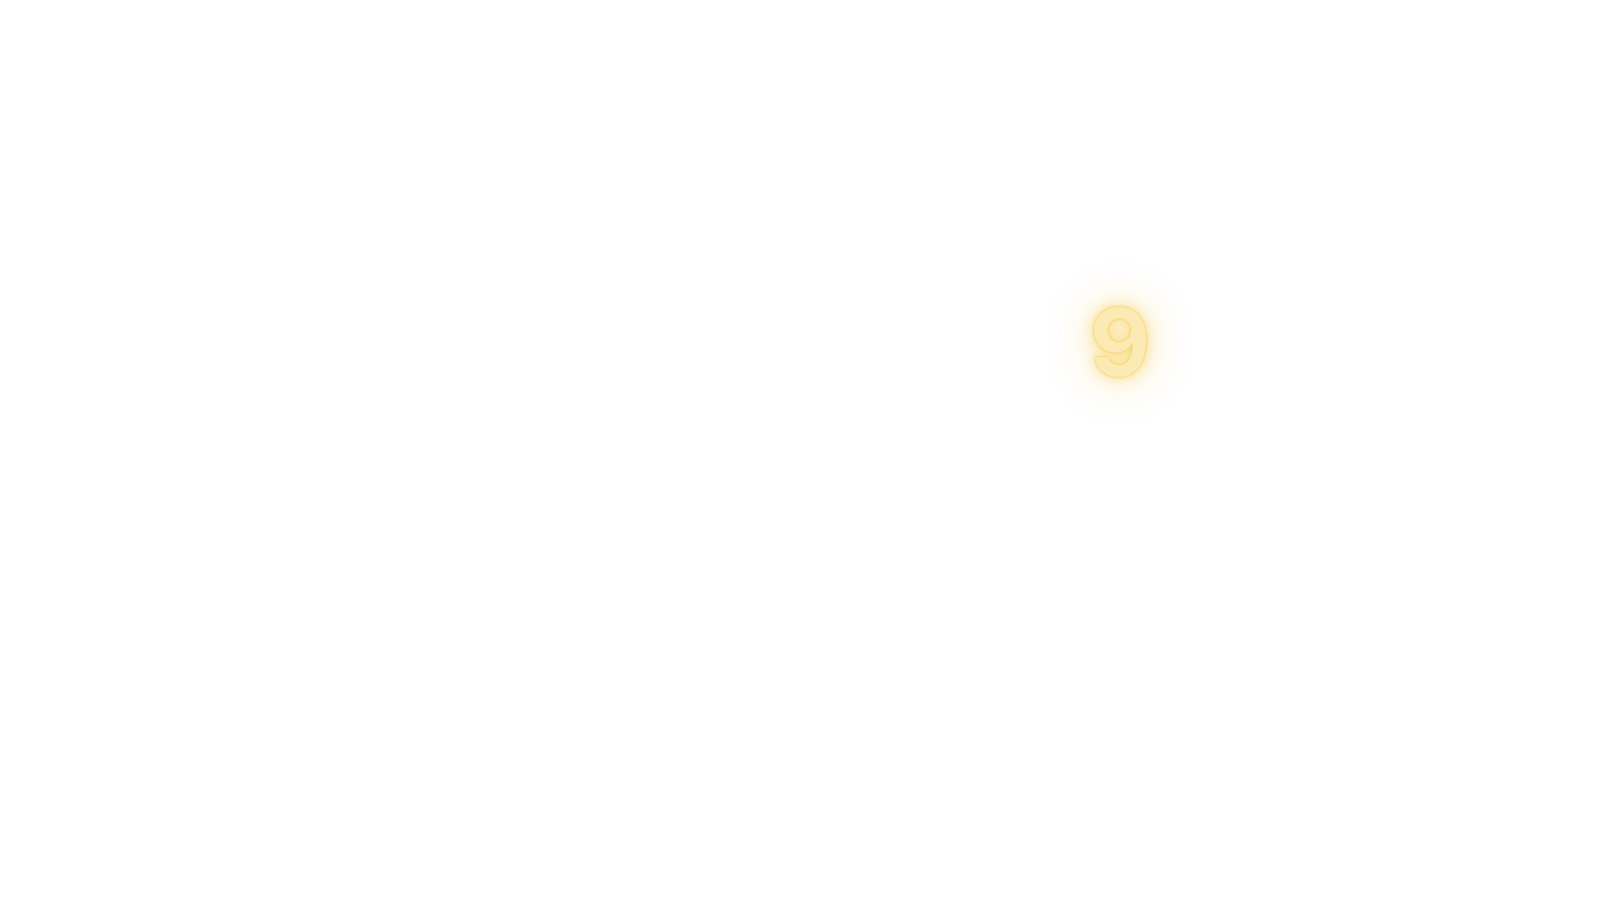
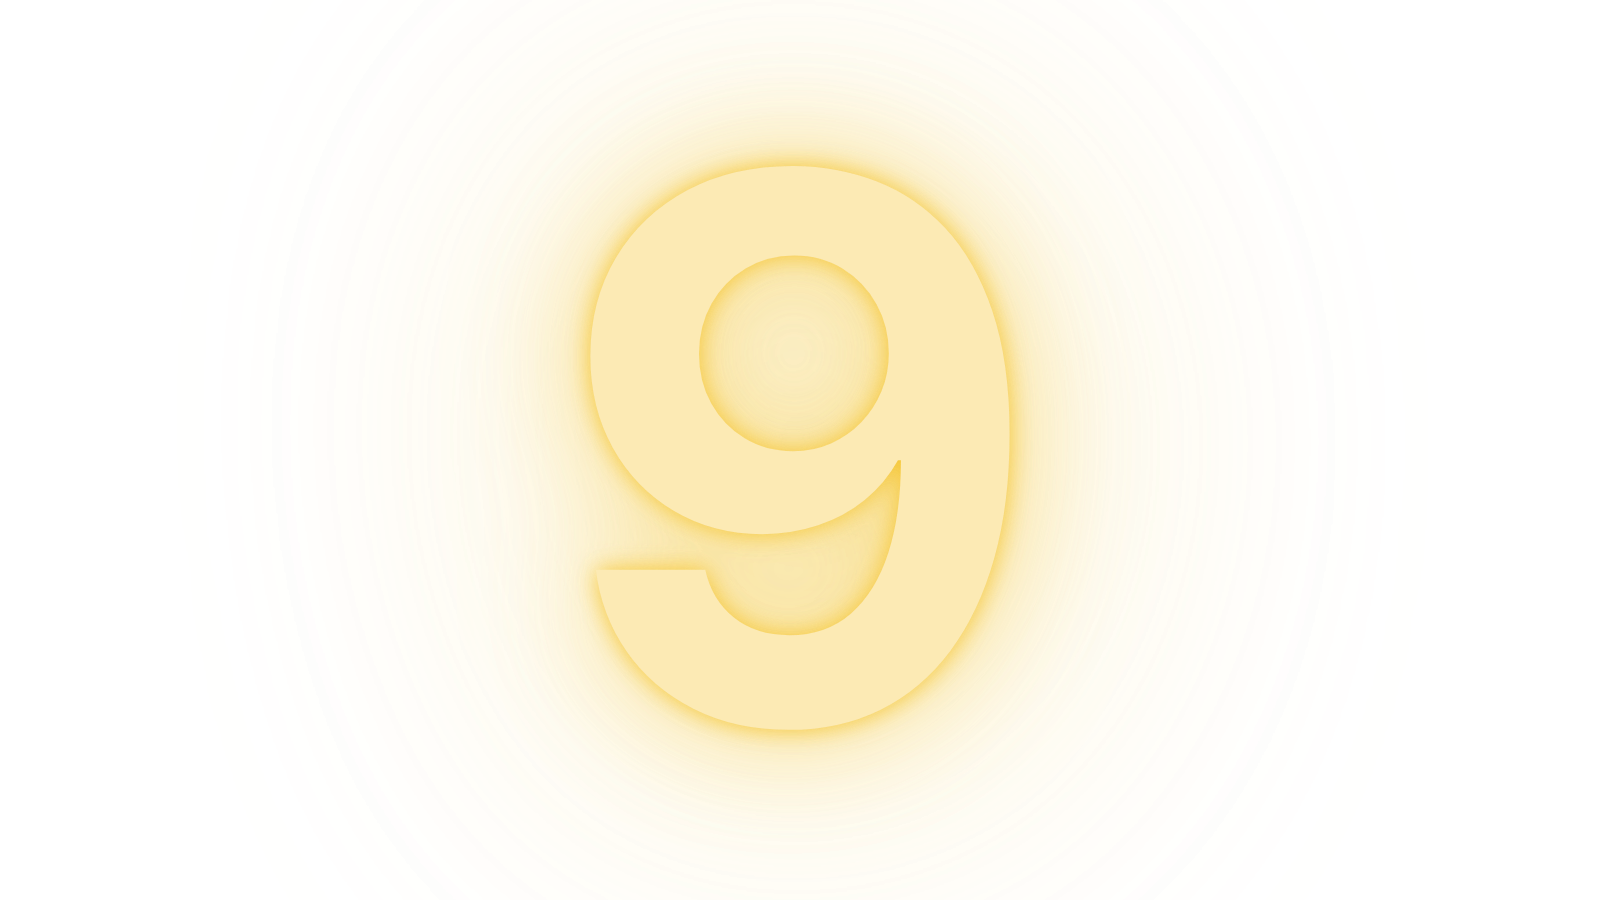
edit

Changed region(s): [[0.3125, 0.0933, 0.7188, 0.9022]]

diff --git a/src/events/Client/onReady.js b/src/events/Client/onReady.js
@@ -1,6 +1,5 @@
 const { success, info } = require("../../utils/Console");
 const Event = require("../../structure/Event");
-const syncCommandPermissions = require("../../utils/syncCommandPermissions");
 const { scanGuildMembers } = require("../../utils/quarantine");
 const config = require("../../config");
 
@@ -9,12 +8,6 @@ module.exports = new Event({
     once: true,
     run: async (__client__, client) => {
         success('Logged in as ' + client.user.displayName + ', took ' + ((Date.now() - __client__.login_timestamp) / 1000) + "s.");
-
-        try {
-            await syncCommandPermissions(client);
-        } catch {
-            // Permissions sync can fail without guild scope; slash checks still apply.
-        }
 
         if (config.quarantine?.flagChannelId) {
             info('Scanning members for quarantine violations...');

diff --git a/src/client/handler/CommandsHandler.js b/src/client/handler/CommandsHandler.js
@@ -37,10 +37,7 @@ class CommandsHandler {
                     }
 
                     this.client.collection.application_commands.set(module.command.name, module);
-                    this.client.rest_application_commands_array.push({
-                        ...module.command,
-                        default_member_permissions: '0'
-                    });
+                    this.client.rest_application_commands_array.push(module.command);
 
                     info('Loaded new application command: ' + file);
                 } catch {